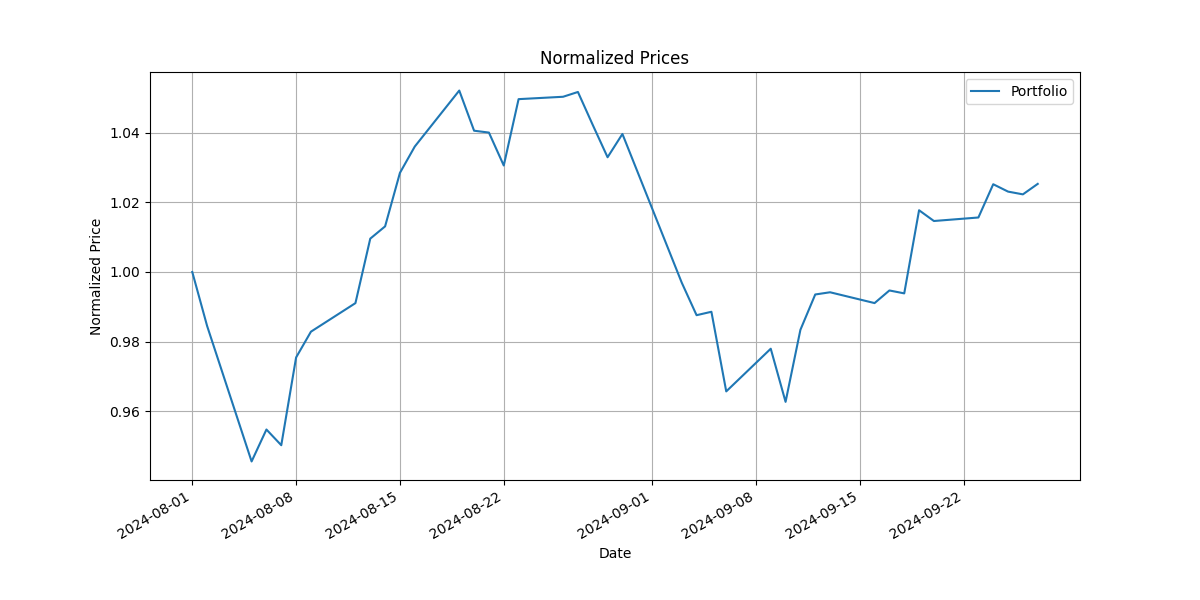
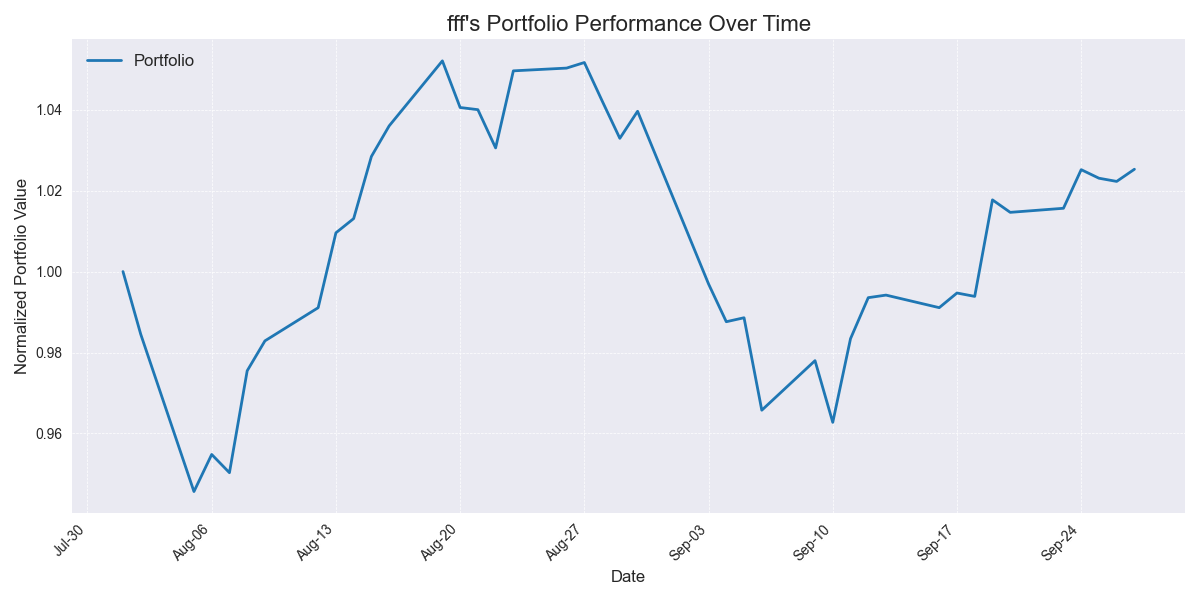
Added calc_stats.py to find stock stats, updated visualization

diff --git a/calc_stats.py b/calc_stats.py
@@ -1,0 +1,106 @@
+import pandas as pd
+import numpy as np
+import os
+from pymongo import MongoClient
+from dotenv import load_dotenv
+
+load_dotenv()
+
+# Get MongoDB connection URI from environment variables
+uri = os.environ.get('MONGO_URI')
+
+# Create a new client and connect to the server
+client = MongoClient(uri)
+
+# Select the database and collection
+db = client['sample_mflix']  # Replace with your database name
+metrics_collection = db['stock_metrics']  # New collection for stock metrics
+
+def calculate_metrics(file_path):
+    try:
+        # Load the stock data from a CSV file
+        stock_df = pd.read_csv(file_path)
+
+        # Ensure the data is sorted by date
+        stock_df['Date'] = pd.to_datetime(stock_df['Date'])
+        stock_df = stock_df.sort_values('Date')
+
+        # Calculate daily returns
+        stock_df['Daily_Return'] = stock_df['Adj Close'].pct_change()
+
+        # Calculate cumulative return
+        price_recent = stock_df['Adj Close'].iloc[-1]
+        price_old = stock_df['Adj Close'].iloc[0]
+        cumulative_return = ((price_recent - price_old) / price_old)
+
+        # Calculate volatility (standard deviation of daily returns)
+        volatility = stock_df['Daily_Return'].std()
+
+        # Calculate Sharpe ratio (assuming risk-free rate of 0 for simplicity)
+        sharpe_ratio = stock_df['Daily_Return'].mean() / volatility if volatility != 0 else 0
+
+        # Calculate Sortino ratio (focus on downside deviation)
+        negative_returns = stock_df[stock_df['Daily_Return'] < 0]['Daily_Return']
+        downside_volatility = negative_returns.std()
+        sortino_ratio = stock_df['Daily_Return'].mean() / downside_volatility if downside_volatility != 0 else 0
+
+        # Calculate average daily return
+        avg_daily_return = stock_df['Daily_Return'].mean()
+
+        # Return the calculated metrics
+        return {
+            'Cumulative Return': cumulative_return,
+            'Average Daily Return': avg_daily_return,
+            'Volatility (Standard Deviation)': volatility,
+            'Sharpe Ratio': sharpe_ratio,
+            'Sortino Ratio': sortino_ratio,
+        }
+
+    except FileNotFoundError:
+        print(f"Error: File {file_path} not found.")
+    except pd.errors.EmptyDataError:
+        print(f"Error: The file {file_path} is empty.")
+    except Exception as e:
+        print(f"An error occurred: {str(e)}")
+        return None
+
+if __name__ == "__main__":
+    # Load the symbols file
+    symbols_file_path = 'sp500_symbols.csv'  # Ensure this file exists
+    sp500_symbols = pd.read_csv(symbols_file_path)
+
+    # Directory where the stock data files are located
+    data_directory = 'data/'
+
+    # Iterate through each symbol in the sp500_symbols file
+    for index, row in sp500_symbols.iterrows():
+        symbol = row['Symbol']
+        file_path = os.path.join(data_directory, f"{symbol}.csv")
+
+        # Calculate metrics for each symbol's CSV file
+        print(f"Calculating metrics for {symbol}...")
+
+        metrics = calculate_metrics(file_path)
+
+        if metrics:
+            print(f"Metrics for {symbol}:")
+            for key, value in metrics.items():
+                print(f"  {key}: {value}")
+
+            # Create a document to insert into MongoDB
+            document = {
+                'stock_name': symbol,
+                'Cumulative Return': float(metrics['Cumulative Return']),
+                'Average Daily Return': float(metrics['Average Daily Return']),
+                'Volatility (Standard Deviation)': float(metrics['Volatility (Standard Deviation)']),
+                'Sharpe Ratio': float(metrics['Sharpe Ratio']),
+                'Sortino Ratio': float(metrics['Sortino Ratio']),
+            }
+
+            # Insert the document into MongoDB
+            try:
+                metrics_collection.insert_one(document)
+                print(f"Metrics for {symbol} inserted into MongoDB.")
+            except Exception as e:
+                print(f"Error inserting metrics for {symbol} into MongoDB: {str(e)}")
+        print("\n")

diff --git a/portfolio_analysis/assess_portfolio.py b/portfolio_analysis/assess_portfolio.py
@@ -3,6 +3,8 @@ import numpy as np
 import datetime as dt
 import matplotlib
 import matplotlib.pyplot as plt
+import matplotlib.dates as mdates
+from matplotlib.ticker import MaxNLocator
 import math
 import os
 matplotlib.use('Agg')  # Set non-interactive backend
@@ -54,35 +56,58 @@ def get_portfolio_returns(prices, allocations, start_val=10000):
     return total_portfolio
 
 def plot_user_portfolio(username):
-    title = "Normalized Prices"
+    # Set up titles and labels
+    title = f"{username}'s Portfolio Performance Over Time"
     xlabel = "Date"
-    ylabel = "Normalized Price"
+    ylabel = "Normalized Portfolio Value"
     
+    # Define file paths
     directory = 'user_portfolios'
     filename = f"{username}_portfolio.csv"
     file_path = f"{directory}/{filename}"
 
+    # Read the portfolio CSV file
     df = pd.read_csv(file_path)
 
+    # Convert 'Date' column to datetime and set as index
     df['Date'] = pd.to_datetime(df['Date'])
     df.set_index('Date', inplace=True)
 
-    print("This is in plot_user_portfolio")
-    print(df.head())
-
+    # Normalize the portfolio values
     df['Portfolio_normalized'] = df['Portfolio'] / df['Portfolio'].iloc[0]
-    plt.figure(figsize=(12, 6))
-    df['Portfolio_normalized'].plot(title=title, label='Portfolio')
-    # df['SPY_normalized'].plot(label='SPY')
-    plt.xlabel(xlabel)
-    plt.ylabel(ylabel)
-    plt.legend()
-    plt.grid(True)
-    # plt.show()
 
+    # Set the plot style
+    plt.style.use('seaborn')
+
+    # Create a figure and axis object
+    plt.figure(figsize=(12, 6))
+
+    # Plot the normalized portfolio
+    df['Portfolio_normalized'].plot(color='#1f77b4', linewidth=2, label='Portfolio')
+
+    # Set title and labels with increased font sizes
+    plt.title(title, fontsize=16)
+    plt.xlabel(xlabel, fontsize=12)
+    plt.ylabel(ylabel, fontsize=12)
+
+    # Format the x-axis dates
+    plt.gca().xaxis.set_major_formatter(mdates.DateFormatter('%b-%d'))
+    plt.gca().xaxis.set_major_locator(mdates.WeekdayLocator(interval=1))
+    plt.xticks(rotation=45)  # Rotate date labels for better fit
+
+    # Customize the legend
+    plt.legend(loc='upper left', fontsize=12)
+
+    # Add gridlines
+    plt.grid(True, which='both', linestyle='--', linewidth=0.5)
+
+    # Adjust layout
+    plt.tight_layout()
+
+    # Save the plot to a file
     image_directory = 'user_portfolio_graphs'
-    image_path = image_path = f"{image_directory}/{username}_portfolio_graph.png"
+    if not os.path.exists(image_directory):
+        os.makedirs(image_directory)
+    image_path = f"{image_directory}/{username}_portfolio_graph.png"
     plt.savefig(image_path)
     plt.close()
-    plt.close()  # Close the plot to avoid displaying it
-    # print(f"Plot saved to {image_path}")

diff --git a/app.py b/app.py
@@ -212,9 +212,9 @@ def user_data_test():
 def visualization_test():
     username = session.get('username')
     print(f"The user is: {username}")
-    print("Now, running plot user portfolio:")
+    print("DEBUG TEST 1: CALLING PLOT USER PORTFOLIO")
     plot_user_portfolio(username)
-
+    print("DEBUG TEST 2: AFTER CALLING PLOT USER PORTFOLIO")
 
     return "<p>This should have created a graph of the user's portfolio.</p>"
 
